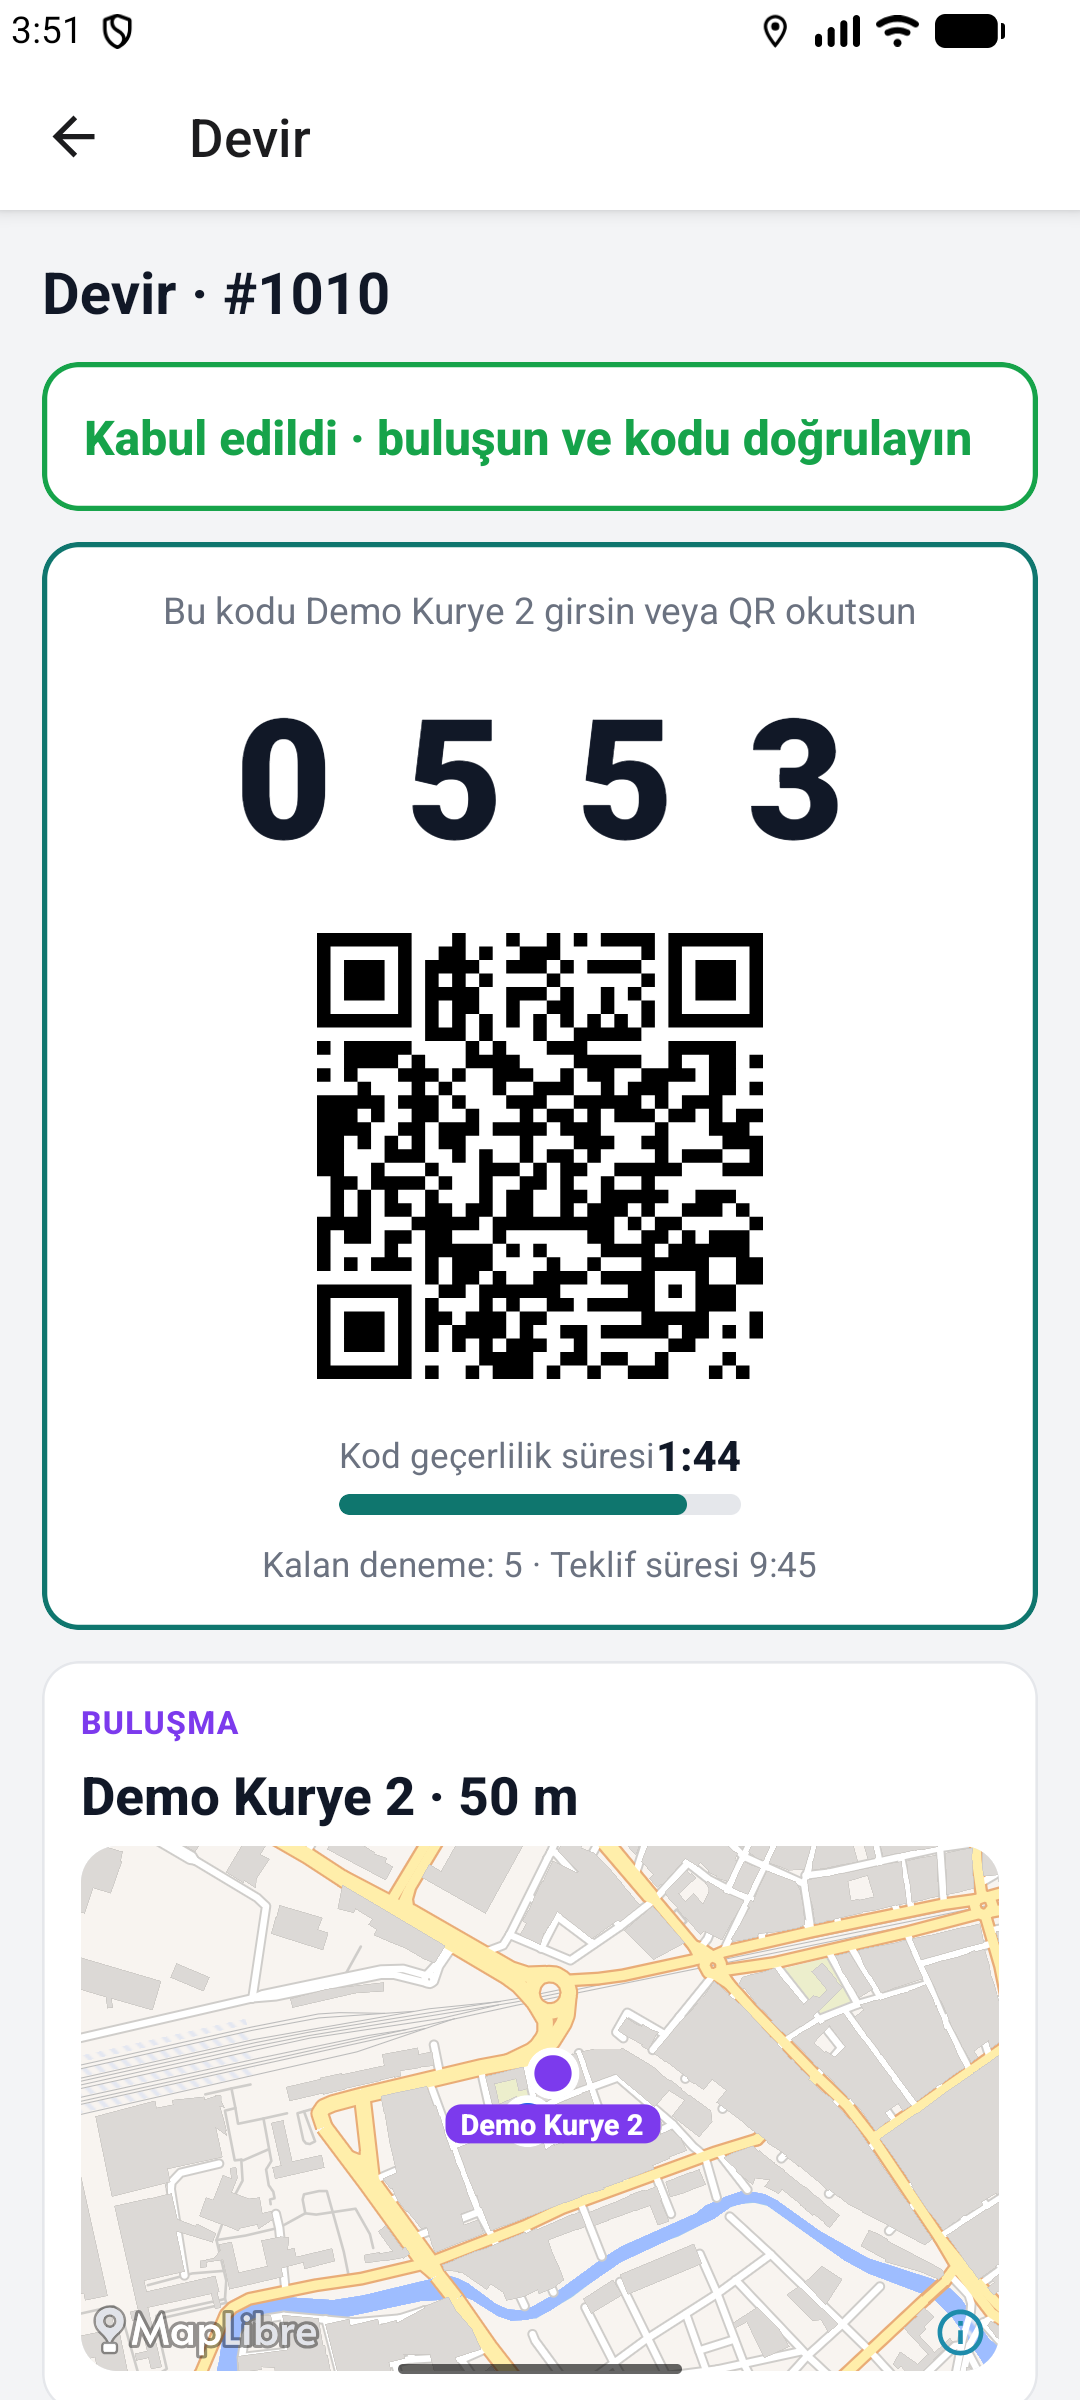
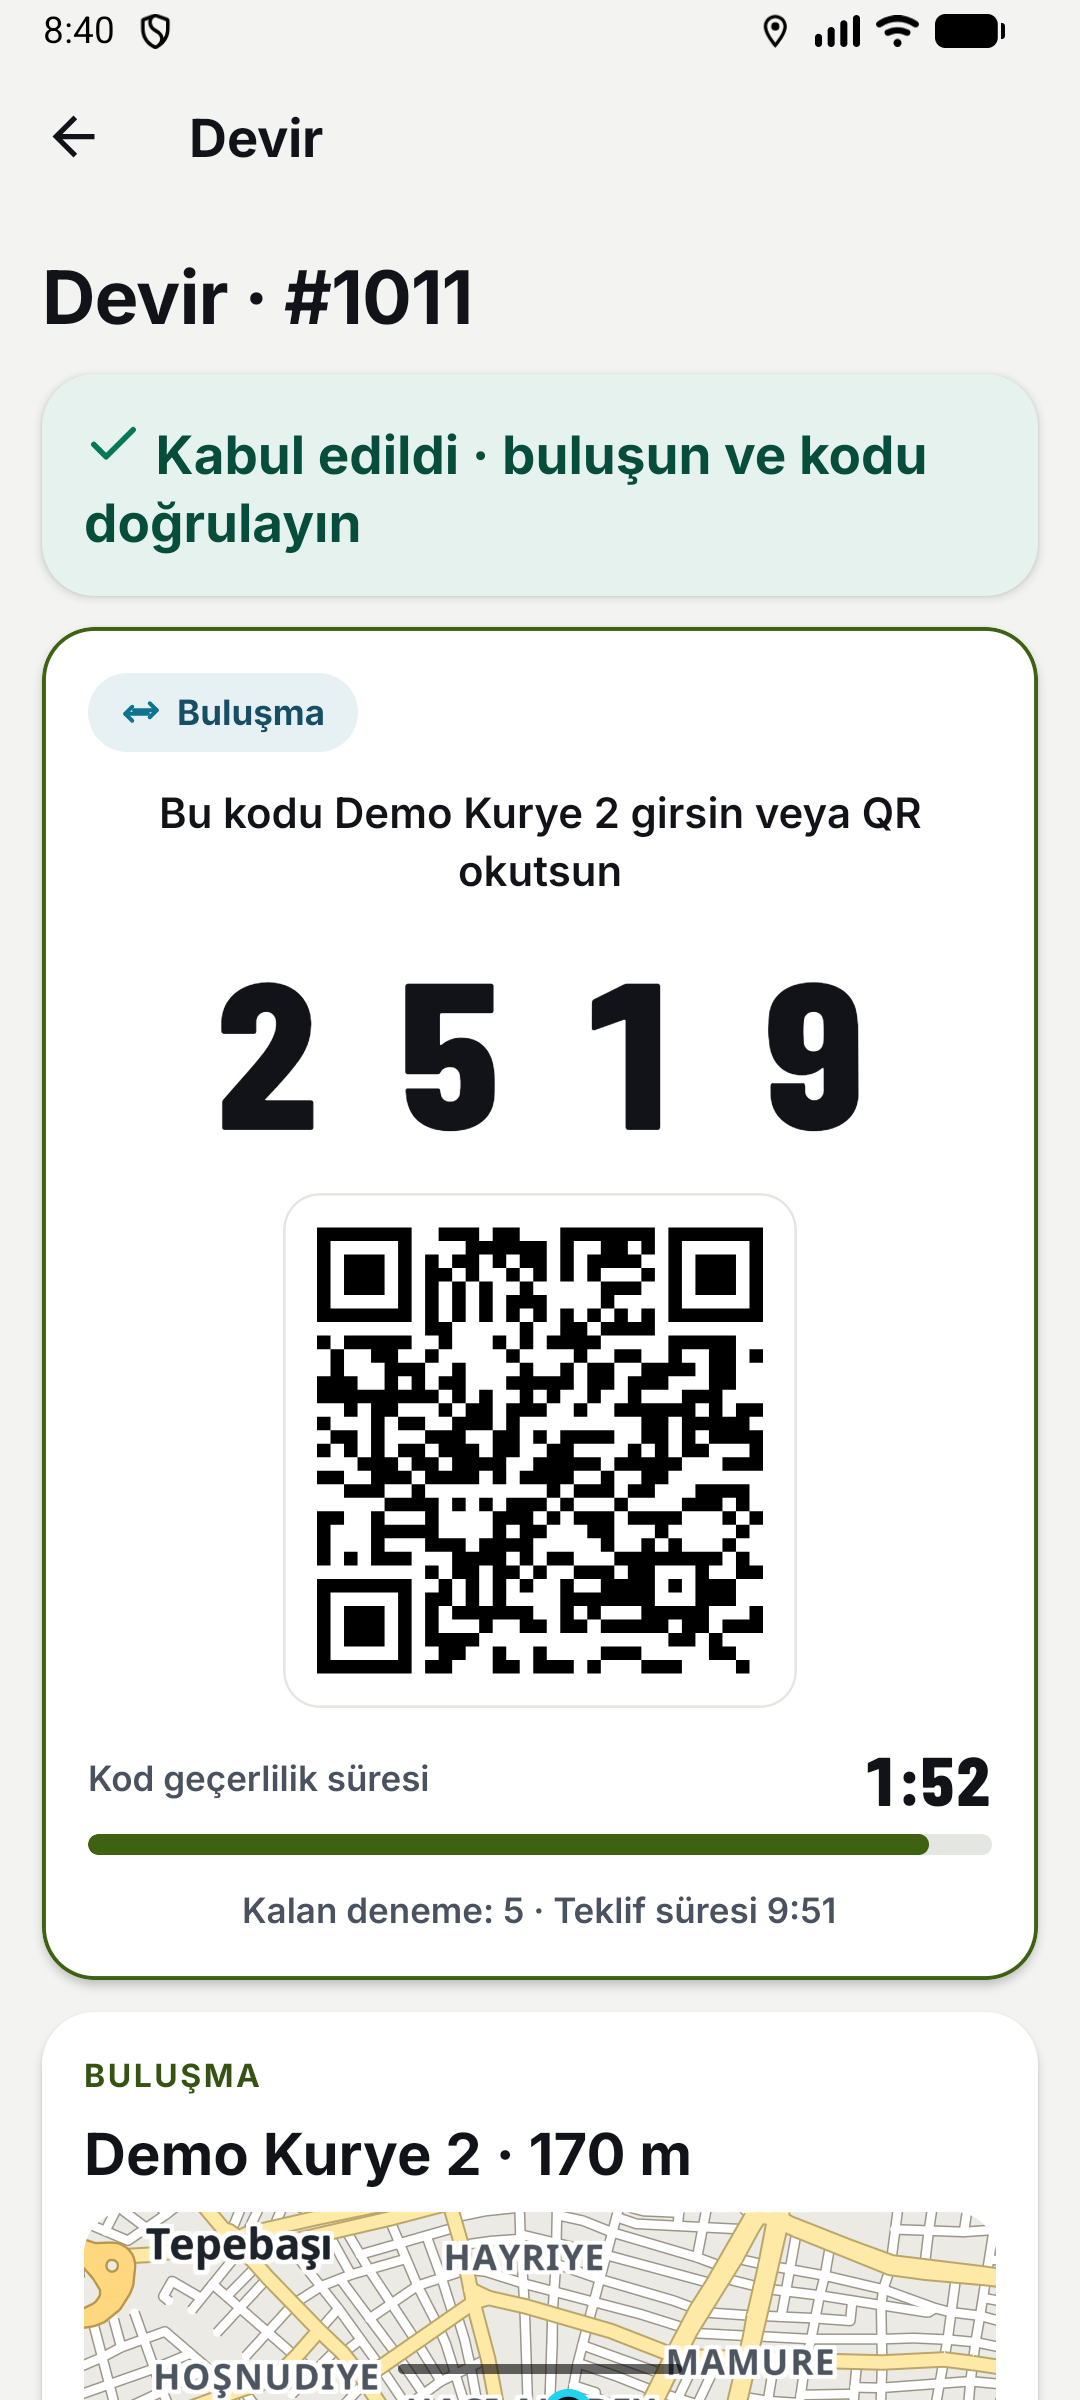
docs: kurye uygulamasi marka gecisi (A2), yeni ekran goruntuleri ve ikon

diff --git a/docs/kararlar/0020-cevrimdisi-eylem-kuyrugu-ve-idempotency.md b/docs/kararlar/0020-cevrimdisi-eylem-kuyrugu-ve-idempotency.md
@@ -71,3 +71,4 @@ Sunucu tarafı Görev Q (İterasyon 3a) ile uygulandı: `services/api/src/common
 - **Çakışma kodu.** "Bu kuryeye daha önce atanmış" tanımı: pakette bu kuryenin `courier_id`'sini taşıyan, `OFFLINE_ACTION_REJECTED` olmayan herhangi bir olay. Hiç atanmamış paket ve başka kiracı 404 kalır. Anahtarlı istek 404 / 409 ile bitince `OFFLINE_ACTION_REJECTED` (durum değişmez, `from` / `to` null) ve `courier.sync_conflict` yazılır; istisna: `IDEMPOTENCY_IN_PROGRESS` (kesicinin kendi yanıtı) ve `SHIFT_NOT_OPEN` (istemci başarı sayar). Paket kiracıya ait değilse veya vardiya eylemiyse olay yazılmaz, WS'te `packageId: null` gider (başka kiracıya bilgi sızmaz). Replay'de ikinci olay yazılmaz.
 - **Bilinen sınır.** Anahtar tablosu iş işlemiyle aynı işlemde değildir (ADR kararı): işlem commit edilip yanıt saklanamazsa yeniden deneme doğal idempotentlik sayesinde aynı sonucu verir; `IN_PROGRESS` devralma penceresinde (30 sn) çökme sonrası aynı çakışma olayı iki kez yazılabilir (nadir, zararsız).
 - **Doğrulama.** `test/idempotency.e2e-spec.ts` (19 senaryo): aynı eylem 5 kez -> 1 olay + 5 aynı yanıt (4'ünde `Idempotent-Replayed`), farklı gövde / işlem / paket 422, kullanıcı yalıtımı, devralma, TTL, `occurredAt` (30 dk önce, FUTURE, TOO_OLD, BEFORE_PREVIOUS), reassign / iptal / hedef durumda çakışmaları, vardiya ve devir isteği iptali, saklama temizliği.
+- **`source` etiketi ve anında gönderim (İterasyon 3b emülatör kabul testi, hata 7).** Uygulama her eylemi önce kuyruğa yazıp hemen gönderdiği için (madde 1) çevrimiçi yapılan bir teslimin olayında bile `source = OFFLINE_QUEUE`, `queuedForS ~ 1` yazılır. Etiket sunucuda `Idempotency-Key` başlığının varlığından türetilir (`occurredAtEventData`, `recordDelivery`); istek gövdesinde kaynak alanı yoktur, dolayısıyla istemci tek başına etiketi değiştiremez (anahtarı atlamak yeniden denemede idempotency'yi bozar). Sözleşmede `source` için şema sabit listesi (enum) yoktur, yalnızca olay `data` açıklamasında `ONLINE | OFFLINE_QUEUE` geçer; yani `ONLINE` değeri zaten tanımlıdır ama sunucu onu hiç üretmez. **Karar: kuyruk-önce korunur, bu iterasyonda API / sözleşme değişmez.** Takip önerisi (API): `source = OFFLINE_QUEUE` yalnızca `queuedForS >= 5` iken yazılır, daha kısa gecikmede `ONLINE` (`occurred-at.ts` + `recordDelivery` çağrısı + birim test); `queuedForS` ölçümü olduğu gibi kalır. O zamana kadar metriklerde "çevrimdışı kuyruk" ayrımı için `queuedForS` eşiği kullanılmalıdır, `source` tek başına güvenilir değildir.

diff --git a/docs/kararlar/0027-marka-kimligi-ve-navigasyon-gorsel-dili.md b/docs/kararlar/0027-marka-kimligi-ve-navigasyon-gorsel-dili.md
@@ -42,3 +42,13 @@ Uygulama kodu değiştirilmeden üç görsel varyant statik maket olarak hazırl
 - **C · Marka / canlı (teal + turuncu, Nunito, hap biçimli kontroller):** mevcut ekrana en yakın, en ucuz geçiş (S–M). Reddedildi: mevcut teal'ı sürdürür ama "premium araç" algısı vermiyor; teal rota park yeşiliyle karışma riski taşıyor.
 - **B'nin her şey koyu hali (gündüz de koyu harita):** güneşte harita okunmuyor; yalnızca gece modu olarak kaldı.
 - **B'nin gündüz açık krom hali:** güneşte güvenli ama neon beyazda kullanılamıyor (1,0:1); marka gündüz kaybolur.
+
+## Ek (2026-11-07): uygulama içi ekranlar açık
+
+Ürün sahibi, kurye uygulamasının navigasyon dışındaki ekranları için iki tur maketi (`docs/tasarim/kurye-app/`) değerlendirdi ve şunu kararlaştırdı:
+
+1. **Koyu krom yalnızca navigasyon ekranı ve harita kromu içindir** (bu ADR'nin 1-7. maddeleri onlar için aynen geçerli).
+2. Giriş, onboarding, listeler, paket ayrıntısı, profil ve devir ekranları **açık** tema kullanır: maket **A2 "Nötr gri + beyaz kartlar"** (zemin `#F3F4F1`, beyaz kart, hafif gölge). Birincil eylem marka yeşili `#3F6212` + beyaz yazı (7,1:1); neon açık yüzeyde dolgu ya da metin olmaz, yalnızca koyu öğede ya da `#4D7C0F` kenarlı küçük sinyal olarak görünür. Durumlar %10 renk tonu + koyu yazı + ikonla gösterilir. Açık zeminde gövde metni de ≥ 7:1.
+3. Belirteçler `tokens.json → courierApp` (sürüm 1.1.0); uygulama: `docs/tasarim/kurye-app-uygulama-notu.md`.
+4. Uygulama ikonu "K + ok" işareti (koyu arka plan + neon ön plan, uyarlanabilir); açılış ekranı açık zemin + koyu daire içinde neon işaret.
+5. Koyu mod şimdilik yok; sistem koyu temasını izleme ayrı görev.

diff --git a/docs/MIMARI.md b/docs/MIMARI.md
@@ -6,7 +6,7 @@
 
 | Bileşen | Teknoloji | Sorumluluk |
 |---|---|---|
-| Kurye uygulaması | React Native + Expo (TypeScript), tek kod Android + iOS | Vardiya, arka plan konum (expo-location + task manager), havuz, harita (MapLibre), uygulama içi adım adım navigasyon (İterasyon 2, [ADR-0015](kararlar/0015-uygulama-ici-navigasyon.md); yedek: Google Maps devri), teslim; ileride hakediş görünümü |
+| Kurye uygulaması | React Native + Expo (TypeScript), tek kod Android + iOS | Vardiya, arka plan konum (expo-location + task manager), havuz, harita (MapLibre), uygulama içi adım adım navigasyon (İterasyon 2, [ADR-0015](kararlar/0015-uygulama-ici-navigasyon.md); yedek: Google Maps devri), teslim; ileride hakediş görünümü. Görsel dil: [ADR-0027](kararlar/0027-marka-kimligi-ve-navigasyon-gorsel-dili.md) (navigasyon ve harita kromu koyu, diğer ekranlar açık; belirteçler `docs/tasarim/marka/tokens.json`) |
 | Yönetim paneli | React + Vite + TypeScript, Mantine, TanStack Query, MapLibre GL JS | İşletme / kurye / paket yönetimi, canlı harita, atama; ileride raporlar |
 | İşletme paneli (sonra) | React + TypeScript | Restoranların kendi siparişlerini girmesi |
 | Ortak sözleşme | OpenAPI 3.1 + WebSocket protokolü (`packages/contracts`) | Üç bileşenin paylaştığı TS tipleri (contract-first) |

diff --git a/docs/tasarim/marka/README.md b/docs/tasarim/marka/README.md
@@ -2,7 +2,7 @@
 
 Kurye Yönetim Sistemi'nin kurumsal görsel dili. Navigasyon tasarım varyantı **B · Koyu / premium**'dan türetildi ([seçim kaydı](../navigasyon/secim.md), [B v1 maketi](../navigasyon/b-v1.html)). Ürün başka kurye ekiplerine çok kiracılı olarak satılacağı için tek ve tanınır bir dil hedeflenir: **siyaha yakın yüzeyler, beyaz metin, tek neon yeşil vurgu.**
 
-Tüm değerler: [`tokens.json`](tokens.json). Henüz hiçbir uygulama koduna uygulanmadı.
+Tüm değerler: [`tokens.json`](tokens.json). Uygulandığı yerler: kurye navigasyon ekranı (koyu, uygulama notu) ve kurye uygulamasının diğer ekranları (açık, `courierApp` rolleri, uygulama notu).
 
 ## Renk
 
